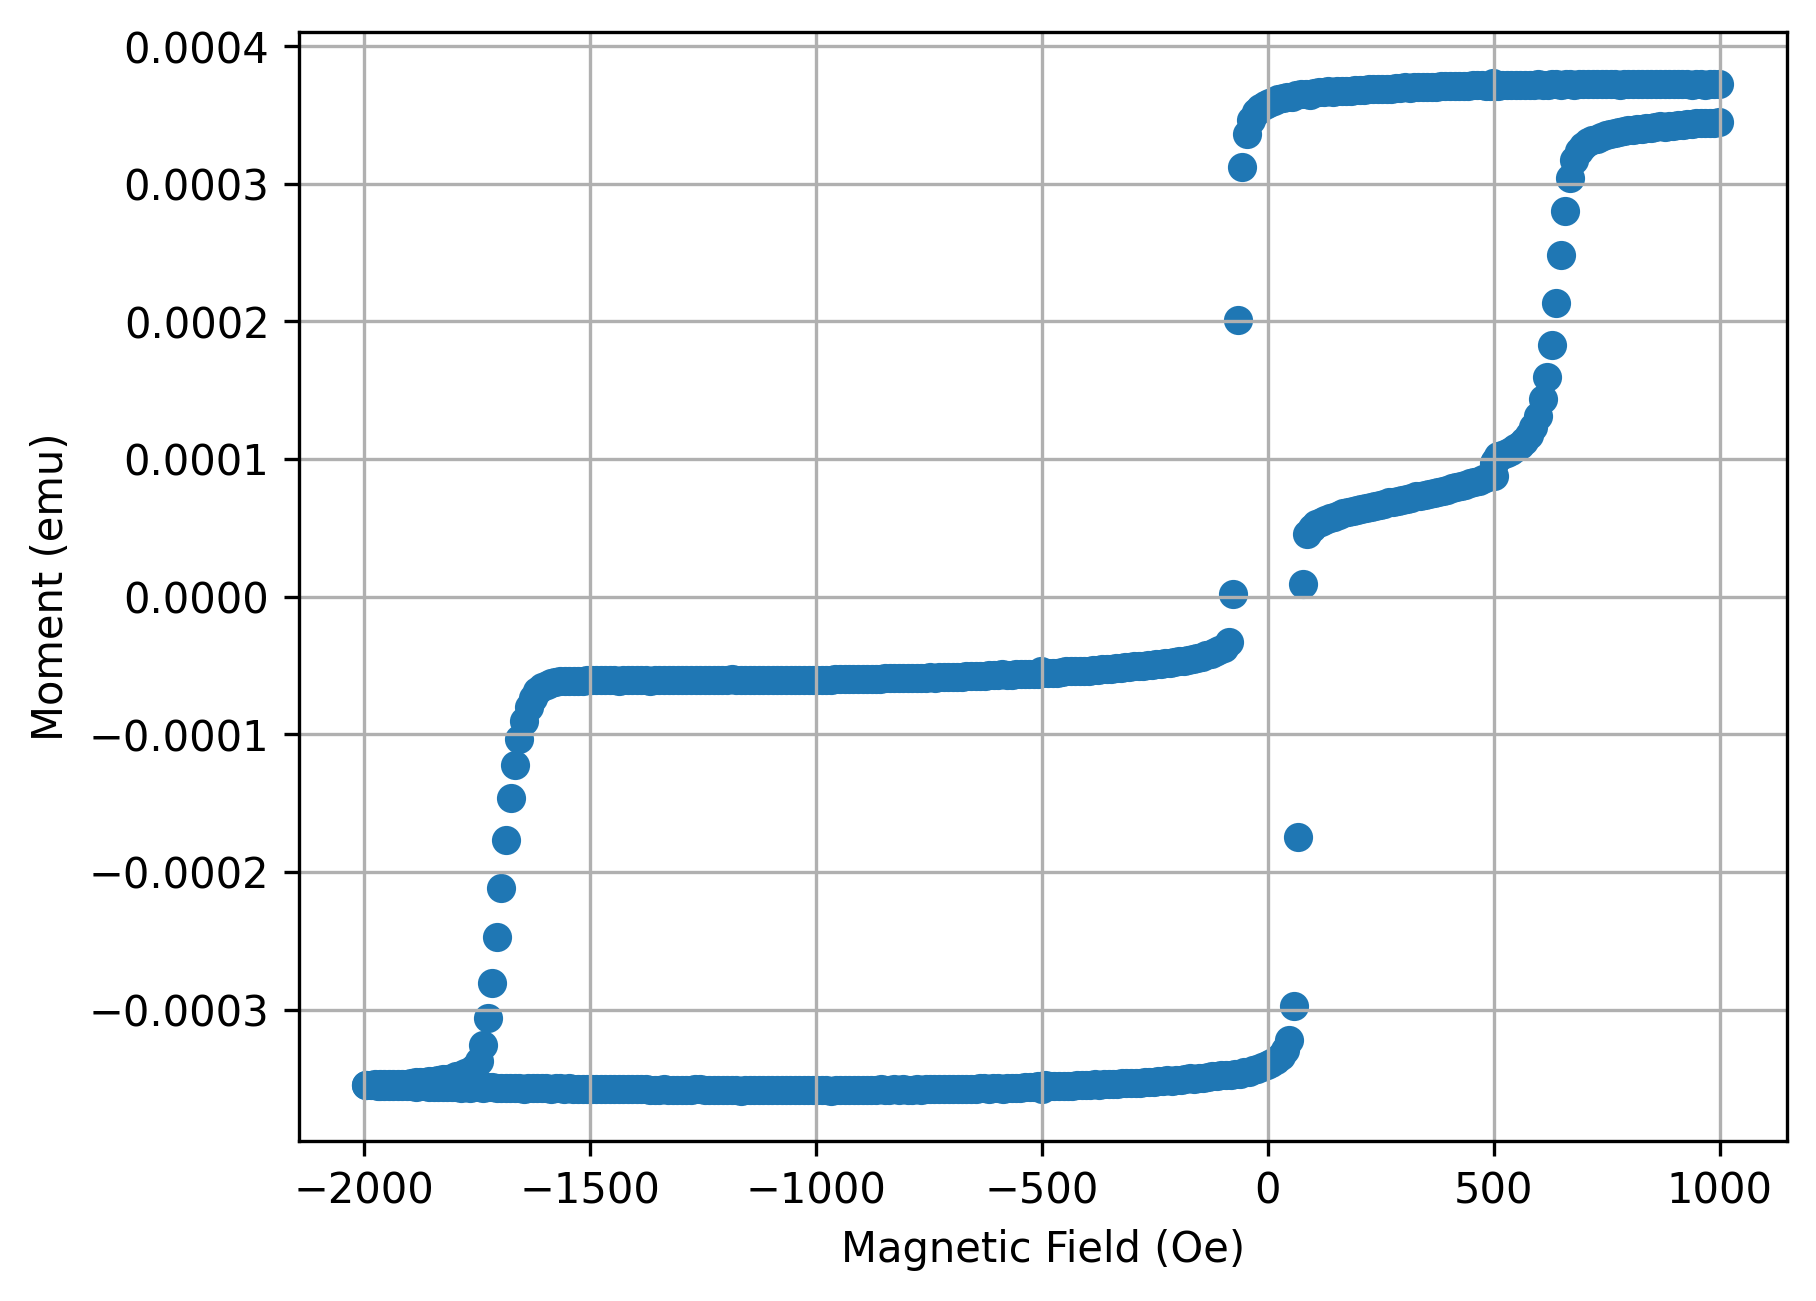
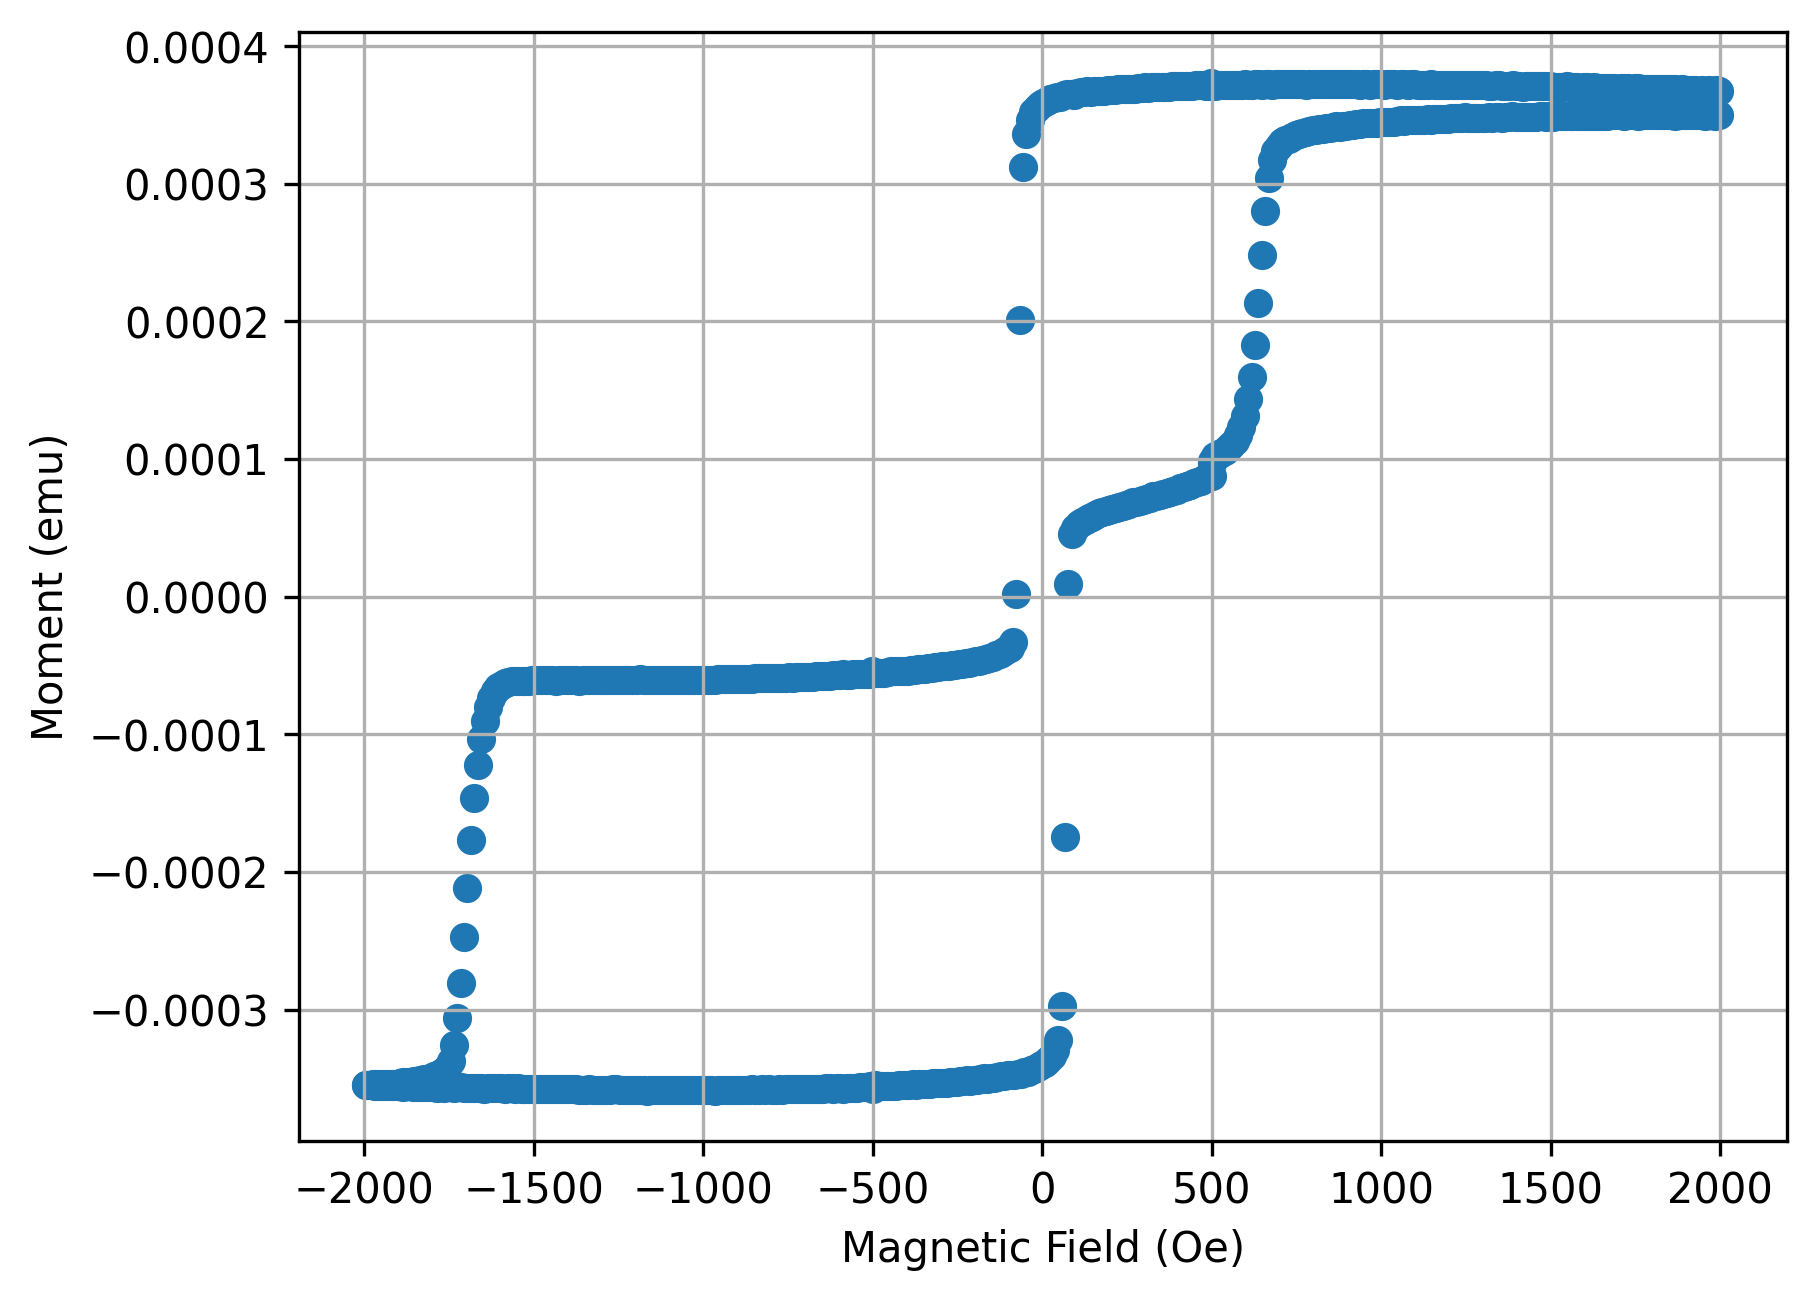
10K hysteresis with inset

diff --git a/10K_hysteresis_with_inset.py b/10K_hysteresis_with_inset.py
@@ -1,0 +1,61 @@
+import matplotlib.pyplot as plt
+import numpy as np
+import pandas as pd
+
+hysteresis_data_path = "10K_hysteresis.csv"
+save_graph_file_path = "10K_hysteresis_with_inset.png"
+separator = "\t"
+
+# Data points
+
+def read_data(data_file_path):
+    with open(data_file_path, "r") as data_file:
+        data_str = data_file.read()
+
+    xpoints = []
+    ypoints = []
+
+    for data_row_str in data_str.split("\n")[1:]:
+        data_row = data_row_str.split(separator)
+        xpoints.append(float(data_row[2][:-1]))     # [:-1] to remove 'K'
+        ypoints.append((float(data_row[0]) + float(data_row[1])) / 2)    # take the absolute value of the exchange bias
+
+    return np.array(xpoints), np.array(ypoints)
+
+
+def read_csv_to_json(csv_file_path):
+    df = pd.read_csv(csv_file_path, keep_default_na=False)      # keep_default_na = True: return NaN if empty; keep_default_na = False: return '' if empty
+    return df.to_dict(orient='records')
+
+
+if __name__ == "__main__":
+    """ 10K Hysteresis """
+    fig, ax = plt.subplots(figsize=(6, 4))
+
+    hysteresis_data = read_csv_to_json(hysteresis_data_path)
+
+    hysteresis_data_low_temp = hysteresis_data[3732:10694]
+    hysteresis_data_low_temp = [d for d in hysteresis_data_low_temp if d["Magnetic Field (Oe)"] > -2000 and d["Magnetic Field (Oe)"] < 1000]
+
+    H = np.array([d["Magnetic Field (Oe)"] for d in hysteresis_data_low_temp])
+    M = np.array([d["Moment (emu)"] for d in hysteresis_data_low_temp])
+
+    ax.scatter(H, M)
+    ax.set_xlabel('Magnetic Field (Oe)')
+    ax.set_ylabel('Moment (emu)')
+    ax.grid(linewidth = 0.3)
+
+    """ Inset """
+    ax_inset = ax.inset_axes([0.16, 0.58, 0.4, 0.4])
+    xpoints, ypoints = read_data("Hc_Temp_1.txt")
+    ax_inset.plot(xpoints, ypoints, color = "red", marker='s', markersize=3, linewidth = 1)
+
+    xpoints, ypoints = read_data("Hc_Temp_2.txt")
+    ax_inset.plot(xpoints, ypoints, color = "blue", marker='s', markersize=3, linewidth = 1)
+    # plt.legend()      # Show legend
+    ax_inset.set_xlabel("Temperature (K)")
+    ax_inset.set_ylabel("Exchange bias (Oe)")
+    ax_inset.set_ylim(-400, 400)
+    ax_inset.grid(linewidth = 0.2)
+    plt.savefig(save_graph_file_path, dpi=300, transparent=False, bbox_inches='tight')
+    # plt.show()

diff --git a/10K_hysteresis.py b/10K_hysteresis.py
@@ -13,9 +13,7 @@ def read_csv_to_json(csv_file_path):
 data = read_csv_to_json(data_path)
 
 data_low_temp = data[3732:10694]
-data_low_temp = [d for d in data_low_temp if d["Magnetic Field (Oe)"] > -2000 and d["Magnetic Field (Oe)"] < 1000]
-
-print(len(data_low_temp))
+data_low_temp = [d for d in data_low_temp if d["Magnetic Field (Oe)"] > -2000 and d["Magnetic Field (Oe)"] < 2000]
 
 H = np.array([d["Magnetic Field (Oe)"] for d in data_low_temp])
 M = np.array([d["Moment (emu)"] for d in data_low_temp])